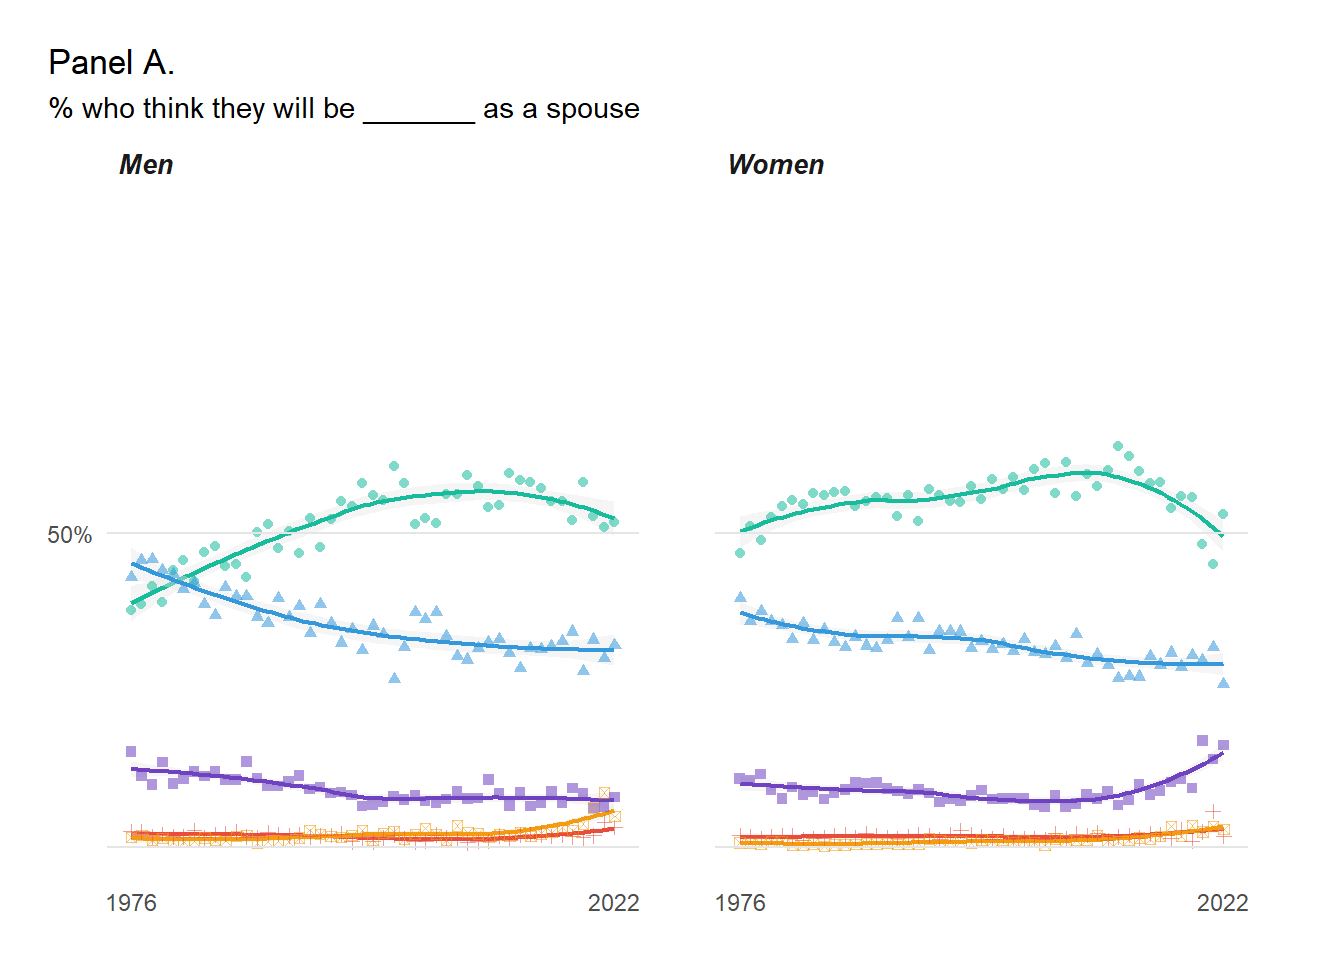
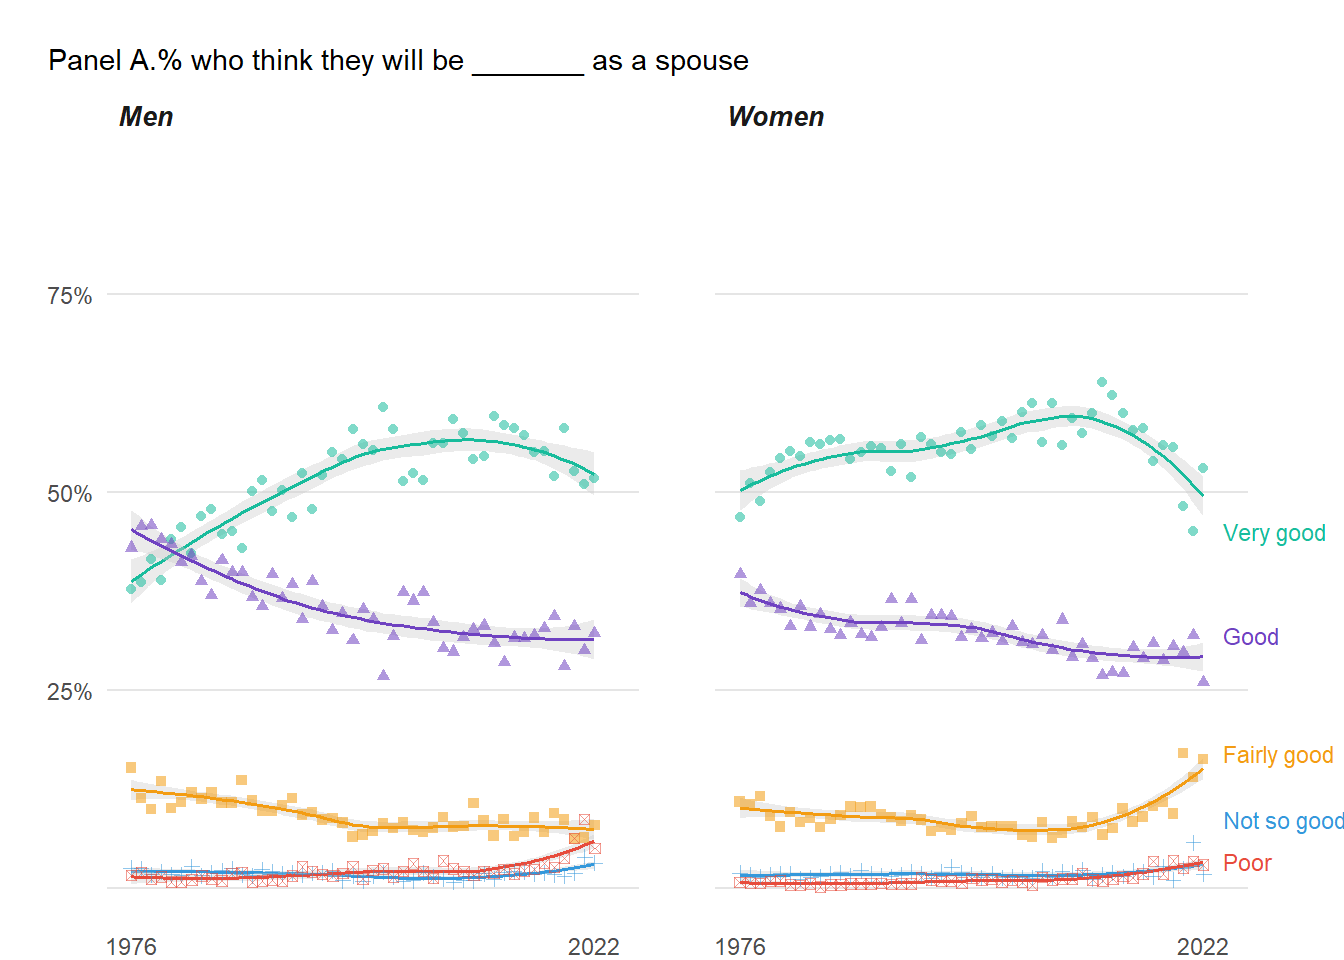
render updates

diff --git a/docs/index.html b/docs/index.html
@@ -7,7 +7,7 @@
 <meta name="viewport" content="width=device-width, initial-scale=1.0, user-scalable=yes">
 
 <meta name="author" content="Joanna R. Pepin and Philip N. Cohen">
-<meta name="dcterms.date" content="2024-01-06">
+<meta name="dcterms.date" content="2024-02-10">
 
 <title>Growing Uncertainty in Marriage Expectations Among U.S. Youth</title>
 <style>
@@ -94,7 +94,7 @@ ul.task-list li input[type="checkbox"] {
     <div>
     <div class="quarto-title-meta-heading">Published</div>
     <div class="quarto-title-meta-contents">
-      <p class="date">January 6, 2024</p>
+      <p class="date">February 10, 2024</p>
     </div>
   </div>
   
@@ -119,6 +119,10 @@ ul.task-list li input[type="checkbox"] {
 <div class="cell-output-display">
 <p><img src="index_files/figure-html/figure-02-1.png" class="img-fluid" width="864"></p>
 </div>
+</div>
+<div style="font-size: 80%">
+<p><strong>Figure 1.</strong> Trends in U.S. twelfth-graders attitudes toward marriage.</p>
+<p>The figure shows data from the 1976-2022 Monitoring the Future Public-Use Cross-Sectional Datasets, a nationally representative annual survey of U.S. high school seniors. Panel A is young adults’ assessment of how good a spouse they expect to be, by gender (very good, fairly good, good, not so good, or poor), by gender. Panel B is their expectation of marriage (get married, not get married, or no idea), also by gender. The bottom panels show the percentage point change over the 10 years from 2012 to 2022 for how good a spouse they will be (Panel C) and their expectation of marriage (Panel D). Over the last 10 years, the percentage of high school seniors who think they will make very good spouses has dropped, as has the percentage expecting to marry. Data access and replication code are available at: [github-repository-redacted-for-peer-review].</p>
 </div>
 <p>Overall, the last decade shows a large drop in both the proportion of youth who think they will be good spouse and the proportion who expect to get married – especially among young women. Whether today’s teens they will continue to drive marriage rates downward is unclear but the major mood swing on marriage appears persistent at least through 2022, which implies future declines in marriage may be on the horizon.</p>
 </section>
